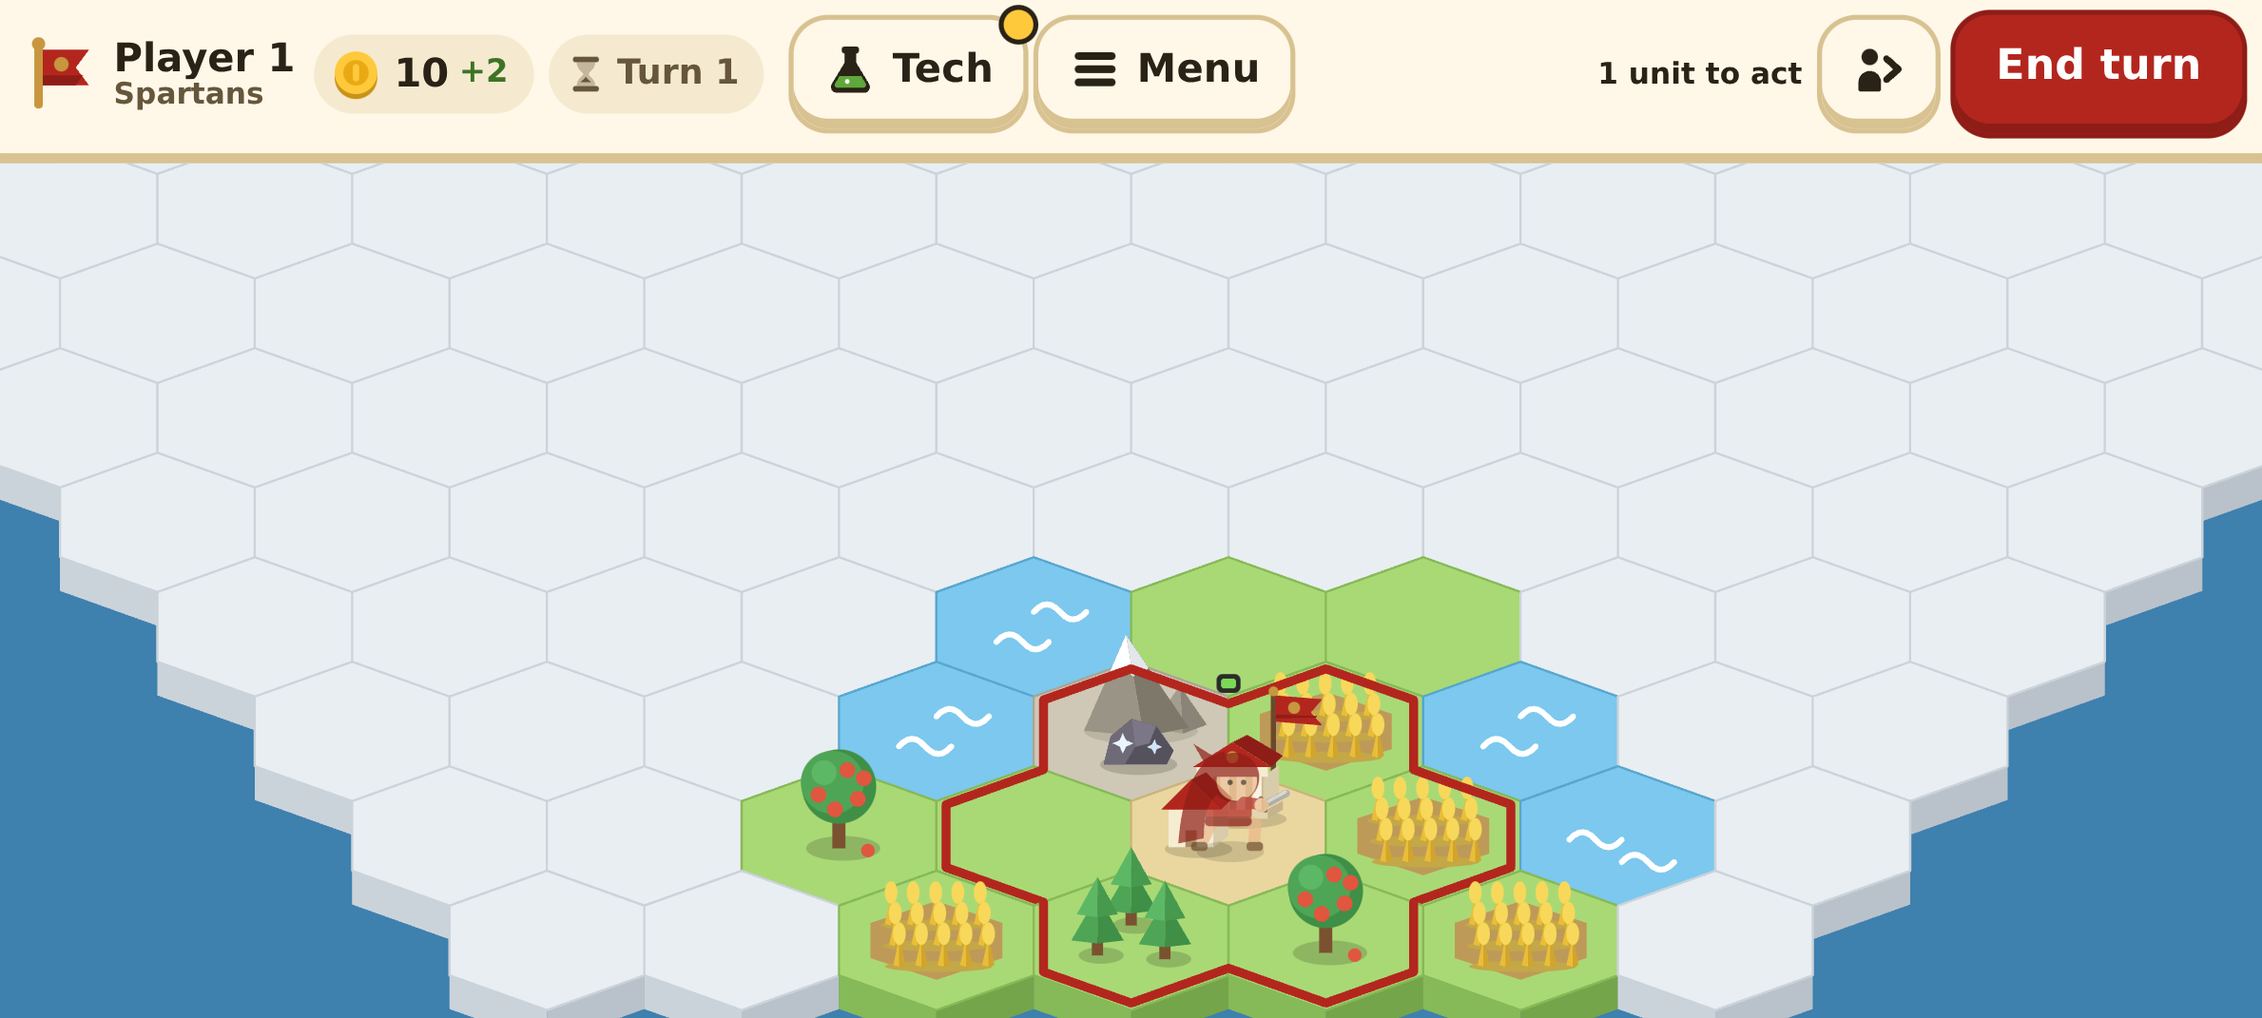
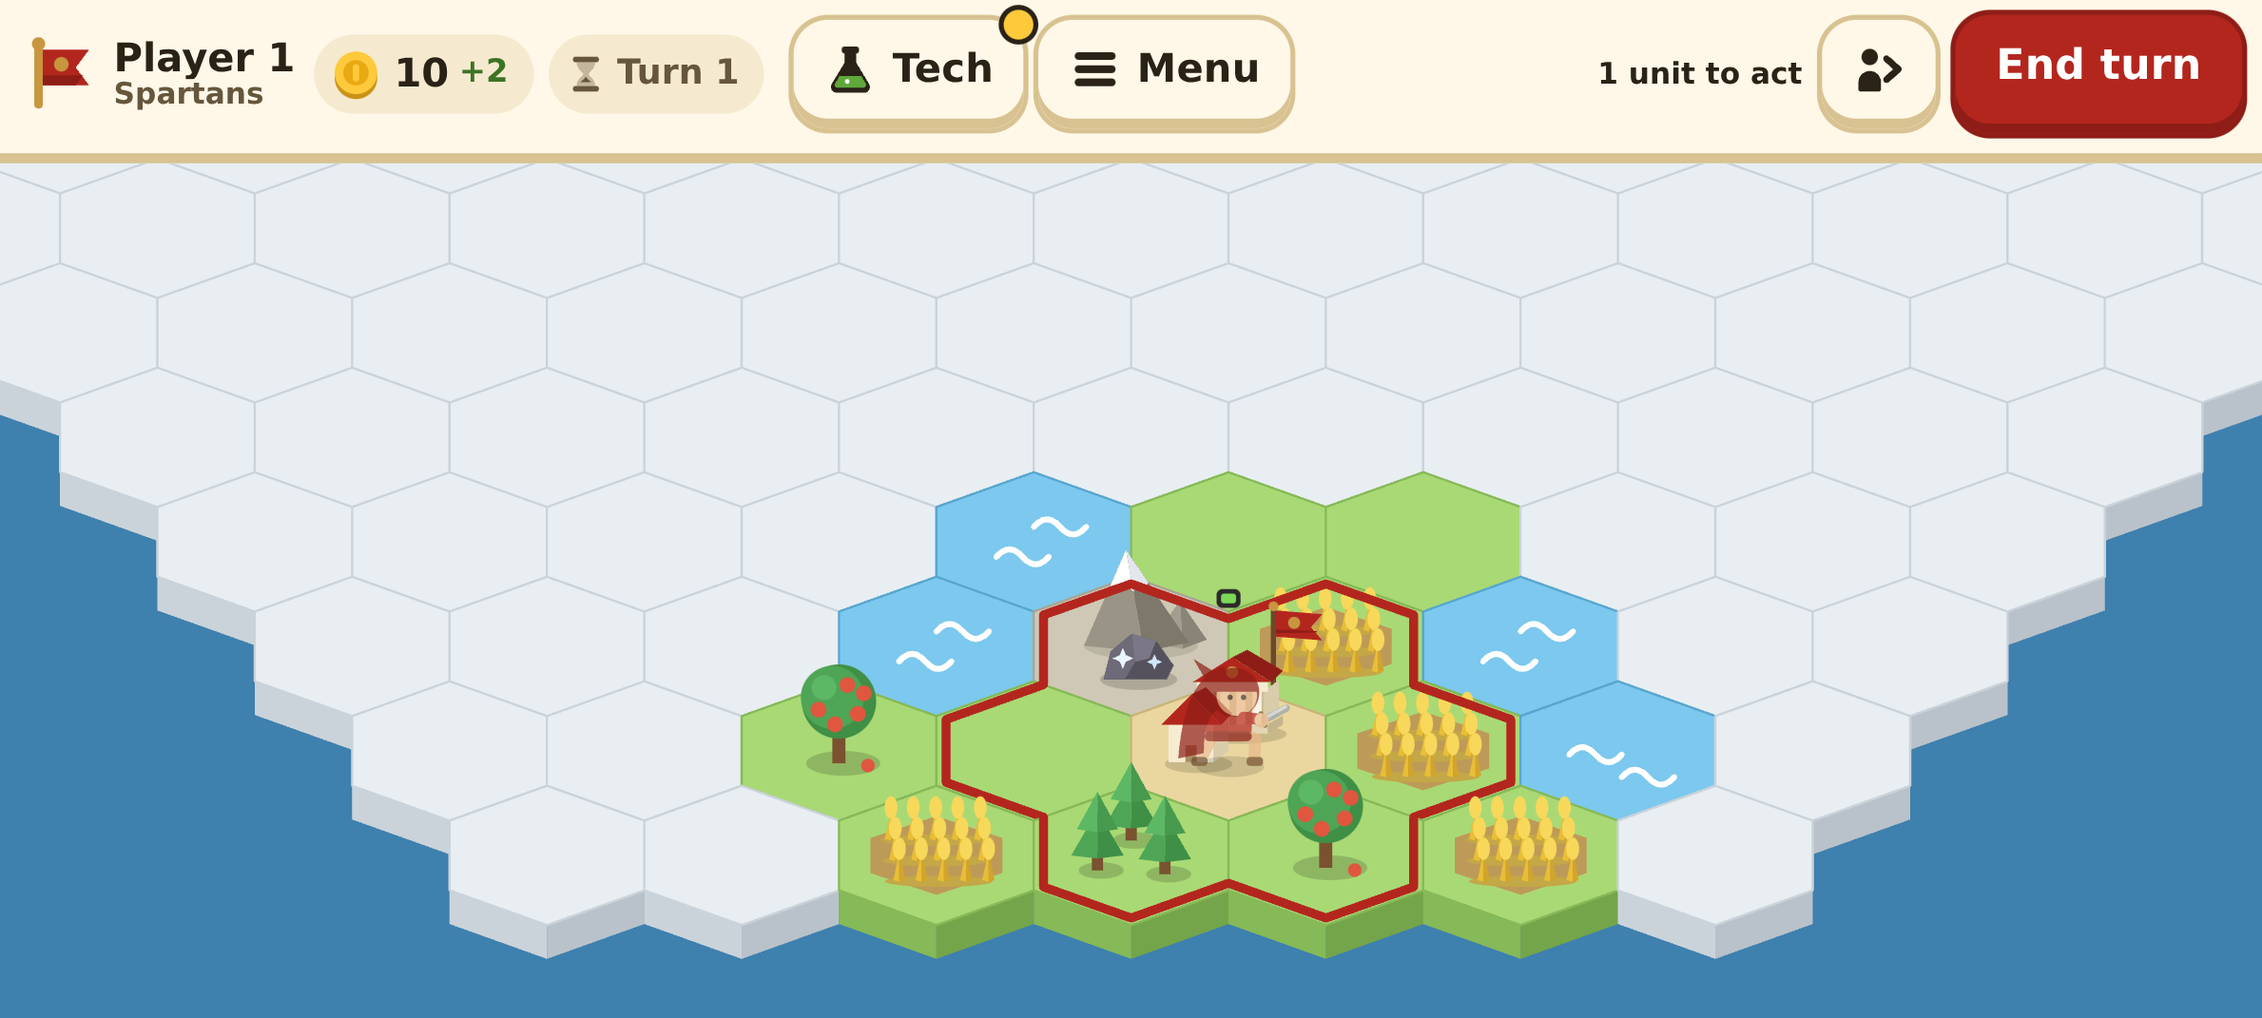
3D terrain: deep tiles that show soil, rock or water, and ore mountains that read at a glance
Tile walls in 3D are five times taller (45 board units), painted by what the tile
is made of: a grass or sand lip over brown soil with strata and pebbles, grey
faceted rock with strata under mountains, a water column under water, today's
flat fog colours under fog. The board bounds grow by the extra wall while the
terrain draws, so the camera fit and pans show the whole slab; tile tops, units,
borders and marks stay put, and nothing changes with the option off. Ore
mountains get rust-tinted rock and five to seven crystal deposits on their slopes
and foot, off the middle of the tile. Screenshots retaken.

diff --git a/src/ui/terrain3d/layout.ts b/src/ui/terrain3d/layout.ts
@@ -6,14 +6,14 @@
 // layout (one of six turns) so the same layout reads differently. The light never turns with it: only the
 // layout does. Tall things (peaks, the grove behind what shares a forest) keep to the back of the tile.
 import type { HexKey } from '../../engine';
+import { THICK_3D } from './input';
 import type { GlMap, GlTile } from './input';
 
 export const R = 30; // board/layout.ts
 export const SQUASH = 0.62; // board/layout.ts
-export const THICK = 9; // board/layout.ts: wall height in board units on screen
 export const SQ3 = Math.sqrt(3);
 export const COS_E = Math.sqrt(1 - SQUASH * SQUASH);
-export const WALL = THICK / COS_E; // wall depth in world units, so it shows THICK board units tall
+export const WALL = THICK_3D / COS_E; // wall depth in world units, so it shows THICK_3D board units tall
 export const WATER_Y = -2.2; // water sits a little below the land, so the shore shows a bank
 export const INR = (R * SQ3) / 2; // inradius
 export const ROAD_HALF = 2.7; // half width of a road in world units (the SVG stroke is 4.6 wide)
@@ -88,7 +88,7 @@ export function spin(x: number, z: number, turn: number): [number, number] {
  * A peak: x, z, height (world units), base radius, ridge turn, the side ridge that carries a shoulder (-1: none)
  * and how much snow (0 none, 1 a cap on the top band, 2 the full broken snow line).
  */
-export interface Peak { x: number; z: number; h: number; b: number; rot: number; shoulder: number; snow: 0 | 1 | 2 }
+export interface Peak { x: number; z: number; h: number; b: number; rot: number; shoulder: number; snow: 0 | 1 | 2; ore?: boolean }
 
 // Mountains: one large main peak with a straight summit, about 35 to 38 board units on screen, and two or three
 // smaller peaks around it at 40 to 62 percent of its height. Peaks on the left stand behind the main peak, so its
@@ -126,7 +126,8 @@ const ORCHARDS: [number, number, number][][] = [
 export type BitKind = 'bush' | 'stone' | 'flower' | 'grass' | 'lily' | 'reed' | 'islet';
 export interface Bit { kind: BitKind; x: number; z: number; s: number; seed: number }
 export type PropKind = 'orchard' | 'deer' | 'ore';
-export interface Prop { kind: PropKind; x: number; z: number; s: number; flip: boolean; seed: number }
+// `y`, when set, is the height the prop stands at (an ore deposit on a peak's slope); otherwise the ground's.
+export interface Prop { kind: PropKind; x: number; z: number; s: number; flip: boolean; seed: number; y?: number }
 
 export interface Setup {
   t: GlTile;
@@ -280,8 +281,12 @@ export function tileSetup(map: GlMap, k: HexKey): Setup {
     }
   }
   if (res === 'ore') {
-    if (shared) place('ore', 11, 13, 0.62, 7, turn % 2 === 1);
-    else {
+    if (shared) {
+      place('ore', 11, 13, 0.62, 7, turn % 2 === 1);
+      // An ore mountain reads at a glance: rust-tinted rock and deposits scattered over its foot and slopes.
+      for (const pk of out.peaks) pk.ore = true;
+      for (const d of oreDeposits(out.peaks, q, r)) out.props.push({ kind: 'ore', ...d, flip: d.seed > 0.5 });
+    } else {
       const [x, z] = ([[0, 9], [-5, 8], [5, 7], [0, 5]] as const)[v]!;
       place('ore', x, z, v === 3 ? 0.9 : 1, 7, turn % 2 === 1);
     }
@@ -294,6 +299,45 @@ export function tileSetup(map: GlMap, k: HexKey): Setup {
   // Rolling hills on open land next to a mountain: purely cosmetic, a board unit or two high.
   if (t.terrain !== 'mountain' && t.terrain !== 'water') {
     EDGE_NB.forEach(([dq, dr], e) => { if (map.tiles[`${q + dq},${r + dr}`]?.terrain === 'mountain') out.hillEdges.push(e); });
+  }
+  return out;
+}
+
+/**
+ * Five to seven ore deposits for an ore mountain, besides the one in the front corner: on the front slopes of the
+ * peaks (with their height) and on the scree at the main peak's foot. All kept off the middle of the tile, where a
+ * unit stands, and on the tile.
+ */
+export function oreDeposits(peaks: readonly Peak[], q: number, r: number): { x: number; z: number; s: number; seed: number; y?: number }[] {
+  const out: { x: number; z: number; s: number; seed: number; y?: number }[] = [];
+  const free = (x: number, z: number, rad: number): boolean =>
+    Math.hypot(x, z) > 11 && edgeDist(x, z) > rad && out.every((o) => Math.hypot(o.x - x, o.z - z) > rad * 1.6) && Math.hypot(x - 11, z - 13) > 8;
+  let i = 0;
+  // Slopes: the faces toward the viewer (+z), a fifth to a third of the way up.
+  for (const p of peaks) {
+    for (const side of [-1, 1]) {
+      const a = Math.PI / 2 + side * (0.55 + 0.4 * hash2(q + i, r - i));
+      const t = 0.12 + 0.2 * hash2(r + i * 1.7, q * 0.3);
+      const rr = p.b * Math.pow(1 - t, 1.08) * 0.8;
+      const x = p.x + rr * Math.cos(a), z = p.z + rr * Math.sin(a);
+      const s = 0.38 + 0.18 * hash2(i, q + r);
+      i++;
+      if (free(x, z, 5 * s)) out.push({ x, z, s, seed: hash2(q * 1.3 + i, r * 2.1 - i), y: t * p.h * 0.9 });
+      if (out.length >= 4) break;
+    }
+    if (out.length >= 4) break;
+  }
+  // The foot of the main peak, on the scree either side and in front.
+  const m = peaks[0];
+  if (m !== undefined) {
+    for (const a of [0.35, 2.75, 1.25, 1.95, -0.2, 3.35]) {
+      const d = m.b * (1.0 + 0.15 * hash2(q - i, r + i));
+      const x = m.x + d * Math.cos(a), z = m.z + d * Math.sin(a);
+      const s = 0.45 + 0.25 * hash2(i * 2.3, q - r);
+      i++;
+      if (free(x, z, 5 * s)) out.push({ x, z, s, seed: hash2(q + i * 0.7, r - i * 1.1) });
+      if (out.length >= 7) break;
+    }
   }
   return out;
 }

diff --git a/src/ui/terrain3d/shaders.ts b/src/ui/terrain3d/shaders.ts
@@ -1,6 +1,6 @@
 // The terrain's shaders: toon light in three soft bands, painted ground, packed earth roads, and today's flat fog.
 // Veiled tiles are dimmed toward the board's veil colour by the same 0.3 the SVG veil uses.
-import { INR, ROAD_HALF } from './layout';
+import { INR, ROAD_HALF, WALL, WATER_Y } from './layout';
 
 export const NOISE = /* glsl */ `
 float hash(vec2 p) { p = fract(p * vec2(123.34, 456.21)); p += dot(p, p + 45.32); return fract(p.x * p.y); }
@@ -43,6 +43,41 @@ ${NOISE}
 ${LIGHT}
 varying vec4 vInfo; varying vec4 vTile; varying float vAO; varying vec2 vLocal; varying vec3 vWorld; varying vec3 vNormal; varying float vRoad; varying float vVeil;
 const float INR = ${INR.toFixed(4)};
+const float WALL = ${WALL.toFixed(4)};
+
+// The side of a tile, painted by what it is made of. d is the depth below the tile's top, along the length of the
+// edge. Ground shows a thin top lip, then brown soil with soft strata and a few pebbles; a mountain shows grey rock
+// in flat faceted patches with strata lines; water is a water column, deeper blue toward the bottom.
+vec3 side(int terrain, float d, float along) {
+  float t = clamp(d / WALL, 0.0, 1.0);
+  if (terrain == 3) {
+    vec3 c = mix(vec3(0.43, 0.74, 0.90), vec3(0.11, 0.29, 0.52), smoothstep(0.0, 1.0, t));
+    float streak = smoothstep(0.72, 0.8, noise(vec2(along * 0.22, d * 0.015)));
+    c += vec3(0.06, 0.08, 0.09) * streak * (1.0 - t);
+    c = mix(c, vec3(0.86, 0.95, 1.0), 1.0 - smoothstep(0.4, 1.1, d));
+    return c;
+  }
+  if (terrain == 2) {
+    float lip = 1.2 + 0.8 * noise(vec2(along * 0.3, 1.0));
+    float facet = floor(noise(vec2(along * 0.07, d * 0.07) + 3.0) * 4.0) / 3.0;
+    vec3 c = mix(vec3(0.50, 0.49, 0.47), vec3(0.67, 0.65, 0.61), facet);
+    float strata = fract(d * 0.11 + 0.35 * noise(vec2(along * 0.05, d * 0.02)));
+    c *= 1.0 - 0.16 * (1.0 - smoothstep(0.0, 0.07, strata));
+    c *= 1.0 - 0.22 * t;
+    return mix(vec3(0.78, 0.75, 0.67), c, smoothstep(lip - 0.2, lip + 0.2, d));
+  }
+  vec3 top = terrain == 4 ? vec3(0.91, 0.84, 0.63) : terrain == 1 ? vec3(0.43, 0.66, 0.33) : vec3(0.60, 0.79, 0.40);
+  float lip = 1.8 + 0.9 * noise(vec2(along * 0.35, 2.0));
+  float band = noise(vec2(along * 0.035, d * 0.22));
+  vec3 soil = mix(vec3(0.50, 0.34, 0.21), vec3(0.62, 0.45, 0.28), smoothstep(0.42, 0.58, band));
+  soil = mix(soil, vec3(0.42, 0.29, 0.18), 0.6 * smoothstep(0.62, 0.7, noise(vec2(along * 0.02, d * 0.09) + 7.0)));
+  // A few pebbles: sparse, each a pale stone with a dark rim.
+  float peb = noise(vec2(along, d) * 0.4 + 11.0) * step(0.55, noise(vec2(along, d) * 0.07 + 5.0));
+  soil = mix(soil, vec3(0.66, 0.60, 0.52), smoothstep(0.90, 0.92, peb));
+  soil = mix(soil, vec3(0.38, 0.27, 0.18), smoothstep(0.86, 0.89, peb) * (1.0 - smoothstep(0.90, 0.92, peb)));
+  soil *= 1.0 - 0.25 * t;
+  return mix(top, soil, smoothstep(lip - 0.25, lip + 0.25, d));
+}
 
 // Roads: distance from the track's centre line (x) and the signed offset across it (y), for the edges in the
 // tile's bit mask (bit e = the edge whose normal is at 60e degrees; 64 = a road with no links, a bare patch).
@@ -109,6 +144,7 @@ void main() {
     vec3 ground = patches(vec3(0.78, 0.75, 0.67), vec3(0.83, 0.80, 0.72), vec3(0.71, 0.68, 0.61), p, 7.0);
     vec3 rock = mix(rockBase, vec3(0.67, 0.64, 0.59), smoothstep(9.0, 10.0, h + 3.0 * noise(p * 0.12)));
     col = mix(ground, rock, smoothstep(1.4, 2.6, h));
+    if (res == 4) col = mix(col, vec3(0.62, 0.49, 0.40), 0.4); // ore: rust-tinted scree
   } else if (terrain == 3) { // water
     float depth = smoothstep(2.0, 16.0, shore);
     col = mix(vec3(0.53, 0.80, 0.93), vec3(0.41, 0.72, 0.89), depth);
@@ -163,10 +199,9 @@ void main() {
     col *= clamp(1.0 + 1.25 * (dot(n, uLightDir) - dot(vec3(0.0, 1.0, 0.0), uLightDir)), 0.82, 1.15);
   }
   if (wall) {
-    // Walls: the terrain colour, darker toward the foot, toon lit by their facing (left light, right dark).
-    vec3 wc = terrain == 3 ? vec3(0.36, 0.63, 0.80) : terrain == 4 ? vec3(0.80, 0.70, 0.47) : terrain == 2 ? vec3(0.66, 0.63, 0.57) : vec3(0.50, 0.70, 0.33);
-    col = wc * (1.0 - 0.18 * edge);
-    col *= 0.96 + 0.06 * noise(vec2(p.x + p.y, vWorld.y * 3.0) * 0.4);
+    // Walls: what the tile is made of, toon lit by their facing (left light, right dark).
+    float top = terrain == 3 ? ${WATER_Y.toFixed(2)} : 0.0;
+    col = side(terrain, top - vWorld.y, vWorld.x + vWorld.z * 0.7);
   }
   vec3 lit = lightUp(col, band) * (wall ? 1.0 : vAO);
   if (!wall) {

diff --git a/src/ui/board/Board.tsx b/src/ui/board/Board.tsx
@@ -11,13 +11,13 @@ import { StatusOverlay } from '../art/units';
 import { centreOn, keepCorner, keepInView, refit, screenToBoard, startCamera, panBy, zoomAt } from './camera';
 import type { Camera, Viewport } from './camera';
 import { prefersReducedMotion } from './Effects';
-import { boardBounds, hexToBoard, tileBox } from './layout';
+import { boardBounds, hexToBoard, THICK, tileBox } from './layout';
 import type { Box, Pt } from './layout';
 import { pick } from './scene';
 import type { SceneItem, SceneTile, SceneUnit } from './scene';
 import { sameData } from './same';
 import { useGestures } from './useGestures';
-import { glMapOf, svgLayers } from '../terrain3d/input';
+import { glMapOf, svgLayers, THICK_3D } from '../terrain3d/input';
 import type { SvgLayers } from '../terrain3d/input';
 import { startTerrain3d } from '../terrain3d/lifecycle';
 import { webgl2Available } from '../terrain3d/option';
@@ -280,7 +280,11 @@ function keepSelection(c: Camera, vp: Viewport, bounds: Box, items: readonly Sce
 export function Board(p: BoardProps): ReactElement {
   const svgRef = useRef<SVGSVGElement>(null);
   const camRef = useRef<SVGGElement>(null);
-  const bounds = useMemo(() => boardBounds(p.radius), [p.radius]);
+  // The 3D terrain's state lives up here: its taller walls widen the board's bounds once it draws.
+  const glWanted = p.terrain3d === true;
+  const [glReady, setGlReady] = useState(false);
+  const gl = glWanted && glReady;
+  const bounds = useMemo(() => boardBounds(p.radius, gl ? THICK_3D : THICK), [p.radius, gl]);
   const vp = useRef<Viewport>(ASSUMED_VIEWPORT);
   const measured = useRef(false);
   const cam = useRef<Camera | null>(null);
@@ -409,8 +413,6 @@ export function Board(p: BoardProps): ReactElement {
   // svg keeps drawing the ground until the terrain has drawn its first frame. No WebGL 2 or a chunk that cannot
   // load leaves this board all SVG; a lost context shows SVG until the context is restored. Neither touches the
   // stored option.
-  const glWanted = p.terrain3d === true;
-  const [glReady, setGlReady] = useState(false);
   const glData = useMemo(() => (glWanted ? glMapOf(p.items, p.radius) : null), [glWanted, p.items, p.radius]);
   const glLatest = useRef(glData);
   useLayoutEffect(() => {
@@ -461,7 +463,6 @@ export function Board(p: BoardProps): ReactElement {
     shownGl.current = { key: d.key, veilKey: d.veilKey };
     write();
   }, [glReady, glKey, glVeilKey, write]);
-  const gl = glWanted && glReady;
 
   // Units slide. A unit that has just moved is drawn last, on top of everything, while it slides: a
   // unit moving toward the back row would otherwise pass under the tiles in front of it. Once it has

diff --git a/src/ui/terrain3d/build.ts b/src/ui/terrain3d/build.ts
@@ -171,7 +171,7 @@ export function tilePieces(map: GlMap, k: HexKey): TilePieces {
 const PAL = {
   trunk: '#7A5230', leafLow: '#3F8F4A', leaf: '#57AE5E', leafTip: '#6CC46E',
   orchardLeaf: '#5FAE55', fruit: '#E2402F', fruitDeep: '#C42E2A',
-  rockLight: '#9C958C', rockDark: '#857F78', scree: '#AEA597', snow: '#F6F8FB', snowShade: '#E4EBF3',
+  rockLight: '#9C958C', rockDark: '#857F78', oreRockLight: '#8E7A6C', oreRockDark: '#6F5F55', scree: '#AEA597', snow: '#F6F8FB', snowShade: '#E4EBF3',
   grass: ['#5E9A3C', '#73AD45', '#4F8A35'], straw: ['#DDB552', '#E9C764', '#C99B3F'], ear: '#F2CF62',
   deer: '#A8693A', deerBelly: '#E1BC8A', deerLeg: '#6E4222', antler: '#EFE3CC', nose: '#3A2516',
   oreDark: '#4E4B58', oreMid: '#6B6778', crystal: '#BFE3FA', crystalDeep: '#7FB8E6',
@@ -354,7 +354,8 @@ function matterhorn(cx: number, cz: number, y0: number, P: Peak, seed: number): 
   const d = new Vector3();
   // Tones go by face of the pyramid (the slot between two ridge lines), not by triangle, so each face reads as
   // one painted plane. The snow line steps per face and band: a broken line, lower on the faces that look up.
-  const slotTone = Array.from({ length: 2 * K }, () => (rnd() < 0.5 ? PAL.rockLight : PAL.rockDark));
+  // An ore mountain's rock is darker and rust-tinted, so the tile reads as ore at a glance.
+  const slotTone = Array.from({ length: 2 * K }, () => (rnd() < 0.5 ? (P.ore ? PAL.oreRockLight : PAL.rockLight) : (P.ore ? PAL.oreRockDark : PAL.rockDark)));
   const snowRing = Array.from({ length: 2 * K }, () => (P.snow === 2 ? 3 + Math.floor(rnd() * 1.6) : P.snow === 1 ? 6 : 99));
   for (const [A, Bv, C, j, ring] of tris) {
     const ux = Bv[0] - A[0], uy = Bv[1] - A[1], uz = Bv[2] - A[2];
@@ -504,7 +505,11 @@ function propsFor(setup: Setup, c: { x: number; z: number }, height: (lx: number
   for (const p of setup.props as Prop[]) {
     if (p.kind === 'orchard') put(fruitTree(c.x + p.x, c.z + p.z, p.s, p.seed), p.x, p.z);
     if (p.kind === 'deer') put(deer(c.x + p.x, c.z + p.z, p.s, p.flip), p.x, p.z);
-    if (p.kind === 'ore') put(oreCluster(c.x + p.x, c.z + p.z, p.s, p.seed, p.flip), p.x, p.z);
+    if (p.kind === 'ore') {
+      const parts = oreCluster(c.x + p.x, c.z + p.z, p.s, p.seed, p.flip);
+      if (p.y === undefined) put(parts, p.x, p.z);
+      else { for (const g of parts) g.translate(0, p.y - 1.2 * p.s, 0); out.push(...parts); } // set into the slope
+    }
   }
   setup.peaks.forEach((p, i) => out.push(...matterhorn(c.x + p.x, c.z + p.z, 0, p, seed + i * 3.7)));
   for (const [x, z, size, sd] of setup.tufts) out.push(...tuft(c.x + x, height(x, z), c.z + z, size, sd));

diff --git a/src/ui/board/layout.ts b/src/ui/board/layout.ts
@@ -64,22 +64,22 @@ export function boardKeys(radius: number): HexKey[] {
   return range({ q: 0, r: 0 }, radius).map(key).sort(depthOrder);
 }
 
-/** One tile with its side wall below and the height of a figure standing on it above. */
-export function tileBox(k: HexKey): Box {
+/** One tile with its side wall below (`wall` board units, THICK unless the 3D terrain's taller walls are drawn) and the height of a figure standing on it above. */
+export function tileBox(k: HexKey, wall = THICK): Box {
   const c = hexToBoard(k);
   return {
     minX: c.x - (R * SQRT3) / 2,
     maxX: c.x + (R * SQRT3) / 2,
     minY: c.y - R * SQUASH - FIGURE_H,
-    maxY: c.y + R * SQUASH + THICK,
+    maxY: c.y + R * SQUASH + wall,
   };
 }
 
-/** Includes side walls below and figure height above. */
-export function boardBounds(radius: number): Box {
+/** Includes side walls below (`wall` board units tall) and figure height above. */
+export function boardBounds(radius: number, wall = THICK): Box {
   const box: Box = { minX: Infinity, minY: Infinity, maxX: -Infinity, maxY: -Infinity };
   for (const k of boardKeys(radius)) {
-    const t = tileBox(k);
+    const t = tileBox(k, wall);
     box.minX = Math.min(box.minX, t.minX);
     box.maxX = Math.max(box.maxX, t.maxX);
     box.minY = Math.min(box.minY, t.minY);

diff --git a/src/ui/terrain3d/input.ts b/src/ui/terrain3d/input.ts
@@ -19,6 +19,12 @@ export interface GlMap {
   fog: HexKey[]; // never explored: drawn as today's blank fog tile, nothing about the ground beneath
 }
 
+/**
+ * How tall a tile's side wall shows on screen with the 3D terrain, in board units: the board reads as a thick slab
+ * of land (the SVG board's wall is THICK, 9). Only the walls below the tile tops grow; the tops stay where they are.
+ */
+export const THICK_3D = 45;
+
 /** Terrains and resources that have WebGL art. Anything else is left to the SVG board, so nothing goes missing. */
 export const GL_TERRAIN: ReadonlySet<Terrain> = new Set<Terrain>(['field', 'forest', 'mountain', 'water']);
 export const GL_RESOURCE: ReadonlySet<Resource> = new Set<Resource>(['orchard', 'cropland', 'game', 'ore']);

diff --git a/src/ui/terrain3d/layout.test.ts b/src/ui/terrain3d/layout.test.ts
@@ -56,3 +56,14 @@ test('each terrain has four distinct layouts', () => {
     expect(looks.size).toBe(4);
   }
 });
+
+test('the 3D walls are five times the svg walls, and the board bounds grow only below the tiles', async () => {
+  const { boardBounds, hexToBoard, THICK } = await import('../board/layout');
+  const { THICK_3D } = await import('./input');
+  expect(THICK_3D).toBe(5 * THICK);
+  const svg = boardBounds(6);
+  const gl = boardBounds(6, THICK_3D);
+  expect(gl.maxY - svg.maxY).toBe(THICK_3D - THICK);
+  expect([gl.minX, gl.minY, gl.maxX]).toEqual([svg.minX, svg.minY, svg.maxX]);
+  expect(hexToBoard('2,3')).toEqual(hexToBoard('2,3')); // tile tops do not move
+});

diff --git a/docs/superpowers/plans/2026-11-24-webgl-terrain-report.md b/docs/superpowers/plans/2026-11-24-webgl-terrain-report.md
@@ -25,6 +25,15 @@ tap). The renderer is the approved art sample ported to TypeScript, with David's
 - Everything else as approved: flat toon light, wild wheat tufts, earth roads joined to neighbours and cities,
   faint hills by mountains, apple trees with seven apples, painted water with foam at the shore.
 
+Later the same day (David's art direction, after the first review):
+
+- Tile walls in 3D are five times taller (`THICK_3D` = 45 board units instead of 9): soil under ground tiles, grey
+  rock under mountains, a water column under water, flat fog colours under fog. The board's bounds grow by the
+  extra wall only while the 3D terrain draws, so the camera fit and panning show the whole slab; tile tops, units,
+  borders and marks do not move. With the option off nothing changes.
+- Ore mountains: rust-tinted rock and scree and five to seven crystal deposits on the slopes and the foot of the
+  peaks, off the middle of the tile.
+
 ## Files
 
 - `src/ui/terrain3d/option.ts`: the setting (read and write, memory fallback) and a WebGL 2 check on a throwaway
